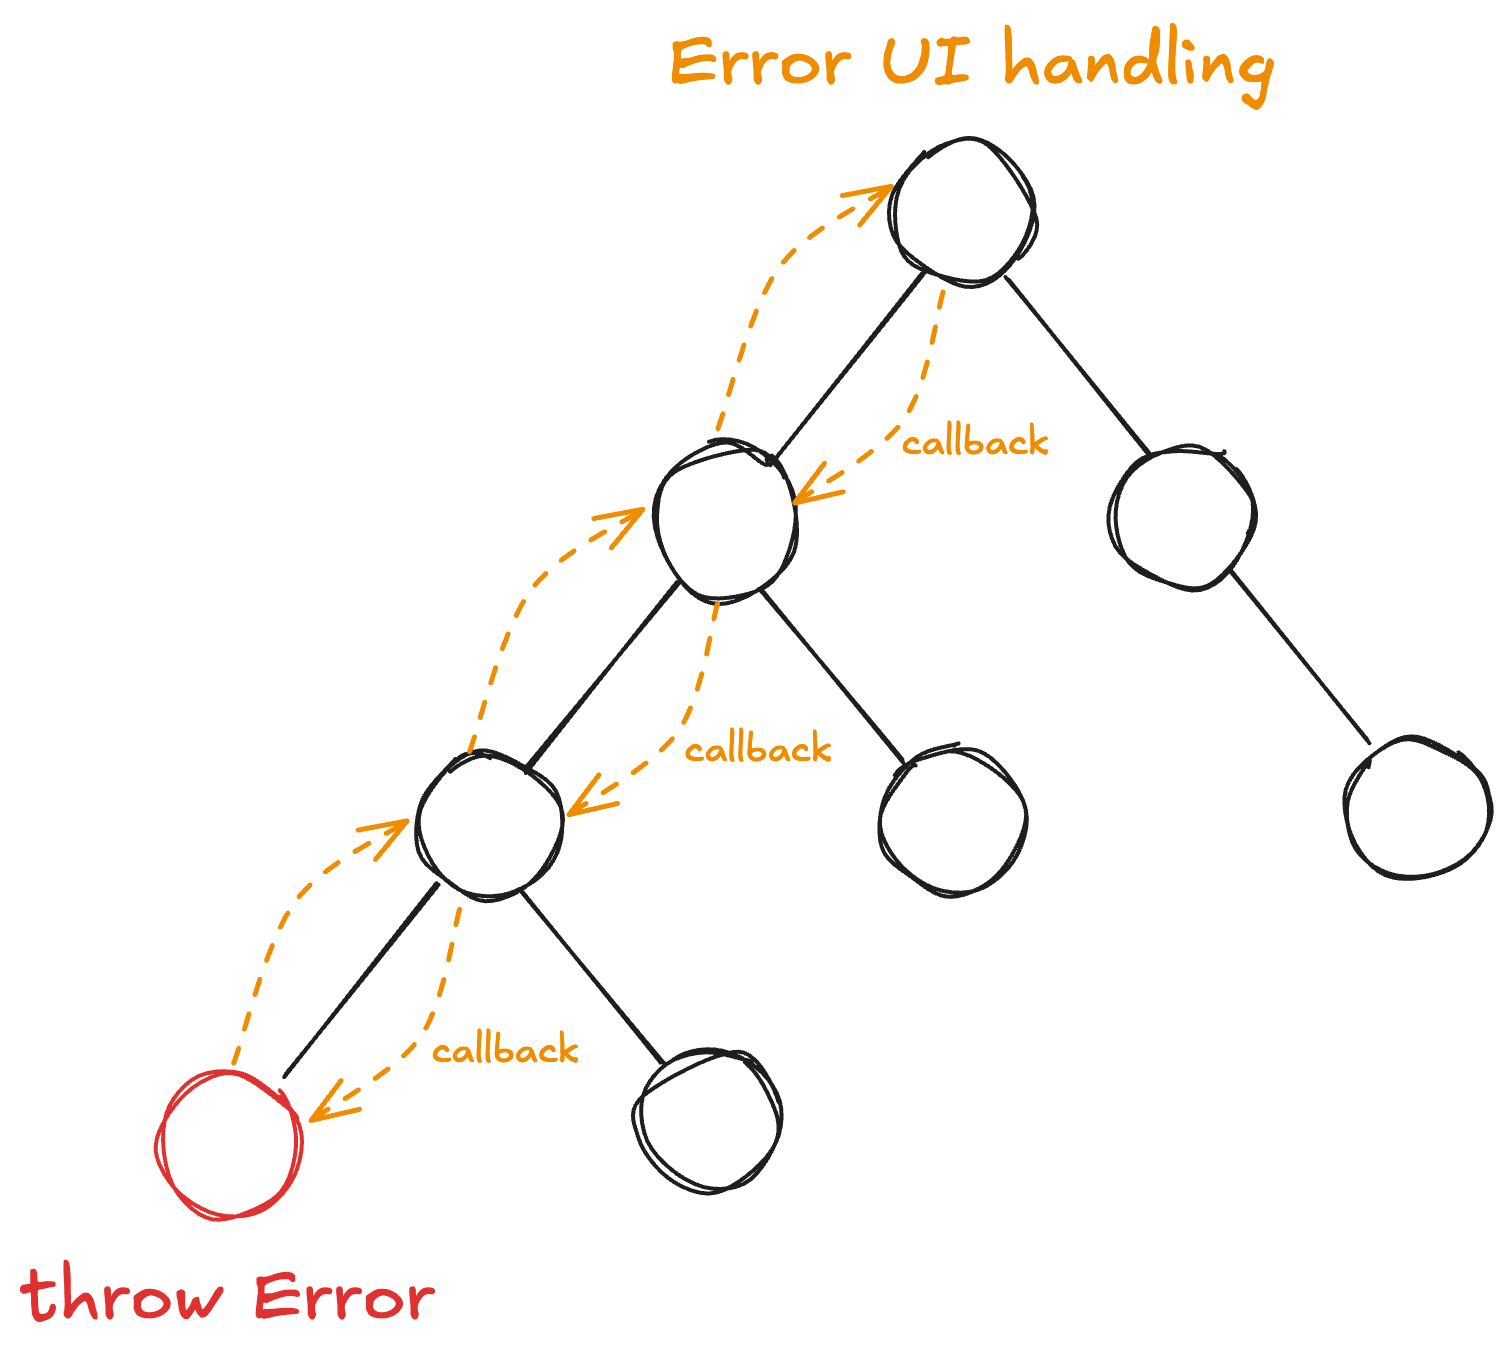
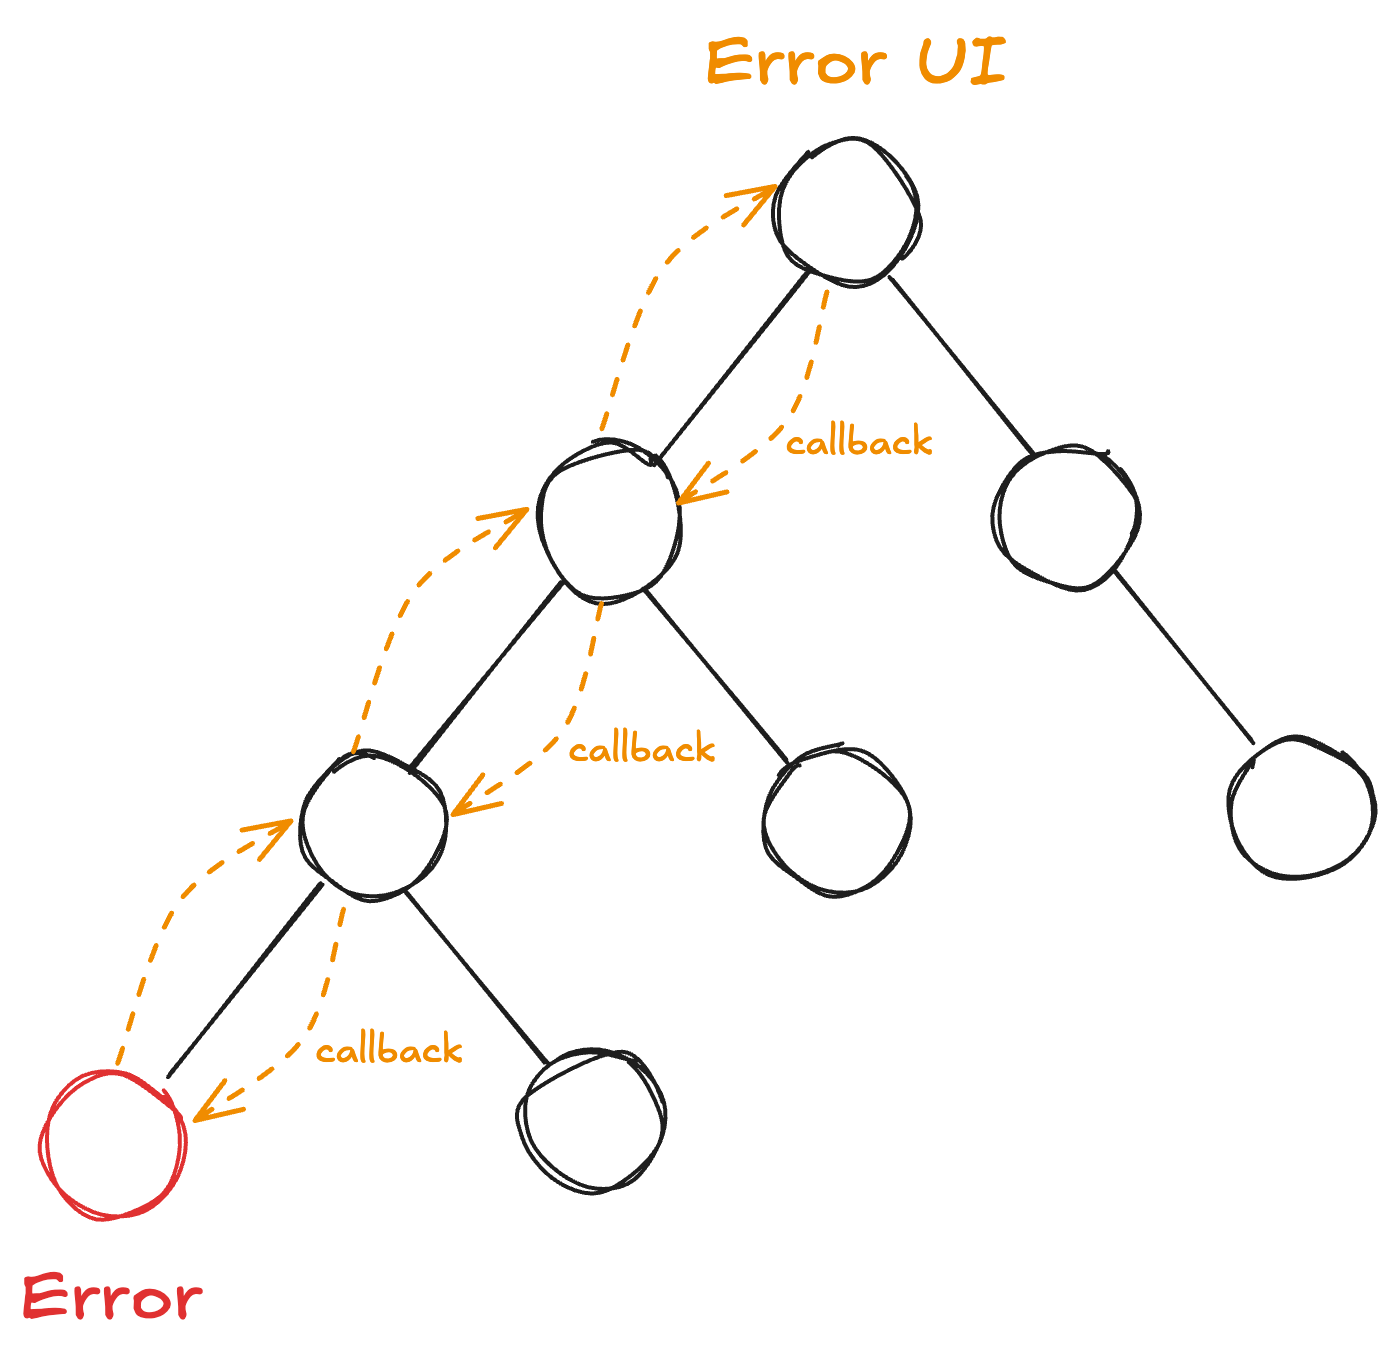
画像差し替え、微修正

diff --git a/books/react-basic-principle/part_1_boundary.md b/books/react-basic-principle/part_1_boundary.md
@@ -10,7 +10,7 @@ Reactでは`<Suspense>`や`"use client"`など、様々なレンダリングの*
 
 Reactをはじめ、コンポーネント指向ではUIをツリー構造で考えます。ツリー構造は情報の依存関係が明確になるため、全体の構造把握が容易になります。
 
-<!-- https://excalidraw.com/#json=XEHJ4Eaby-Q-Gg2Whb1S_,L_QxKu8yfT1Q8P9AEAd0wQ -->
+<!-- https://excalidraw.com/#json=1BqNUBkEjbP4Napz-xkwR,tYubY5DXn_2a45eDcUngwQ -->
 
 ![UI Tree](/images/react-basic-principle/ui-tree.png)
 
@@ -33,7 +33,7 @@ function Page() {
 }
 ```
 
-一方、UIに関するあらゆる実装要件がツリー構造とマッチするわけではありません。例えば、末端のコンポーネントで発生したエラーに対し祖先でエラーUIを出し分けるなどするのに、_Props Drilling_（Propsのバケツリレー）をするのは良い設計とは言えません。
+一方、UIに関するあらゆる実装要件がツリー構造とマッチするわけではありません。例えば、末端のコンポーネントでエラーが発生した場合に、祖先コンポーネントでエラーUIを表示したいとします。この際、ツリー構造のルールに厳密に従うにはエラーを`throw`するのではなく、エラーハンドリング関数などを*Props Drilling*（Propsのバケツリレー）することが考えられますが、これは冗長な実装が伴うため良い設計ではありません。
 
 ![Error UI](/images/react-basic-principle/error-props-dlilling.png =350x)
 

diff --git a/books/react-basic-principle/part_1.md b/books/react-basic-principle/part_1.md
@@ -2,7 +2,7 @@
 title: "第1部 Reactの設計思想"
 ---
 
-Reactに限らず、ライブラリやフレームワークを学ぶ際にはAPIや仕様に目が行きがちですが、これらの背後には緻密な課題設定と最適解の選択といったいわば**設計思想**が存在します。ライブラリやフレームワークを使いこなすにはAPIや仕様のみならず、設計思想に対する理解が非常に重要です。
+Reactに限らず、ライブラリやフレームワークを学ぶ際にはAPIや仕様に目が行きがちですが、これらの背後には緻密な課題設定と最適解の選択といった、いわば**設計思想**が存在します。ライブラリやフレームワークを使いこなすにはAPIや仕様のみならず、設計思想に対する理解が非常に重要です。
 
 Reactは、Webの歴史的経緯と複雑化する要求の間に生じたミスマッチを課題とし、宣言的UIやコンポーネント指向などの解決策を提供します。React独自の設計やルールは、この壮大な課題解決を実現するための選択の結果とも言えます。そのため、Reactにおいては特に設計思想の理解が重要だと筆者は考えています。
 
